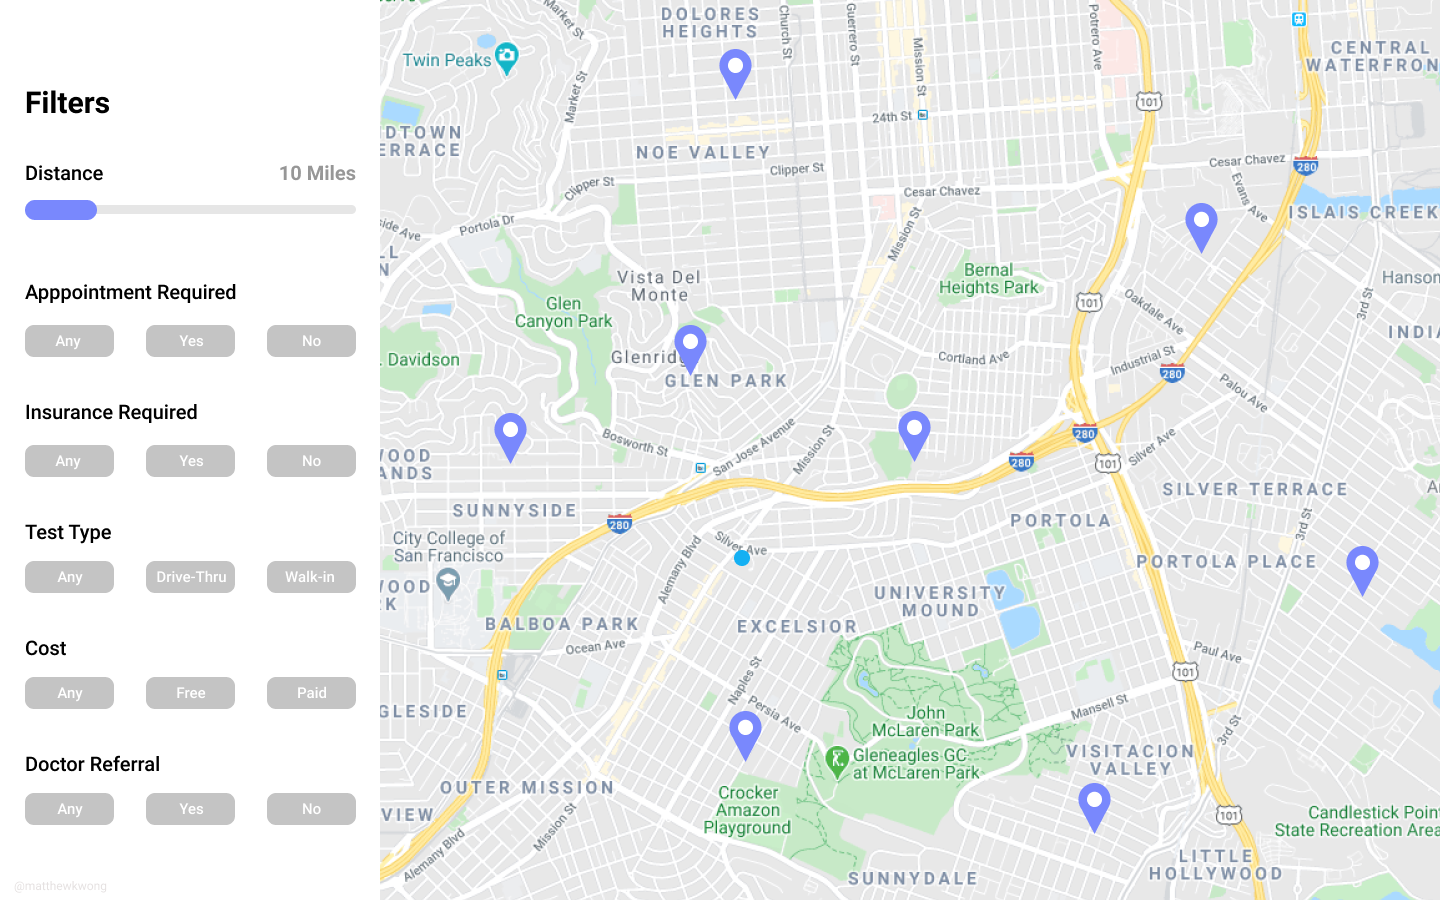
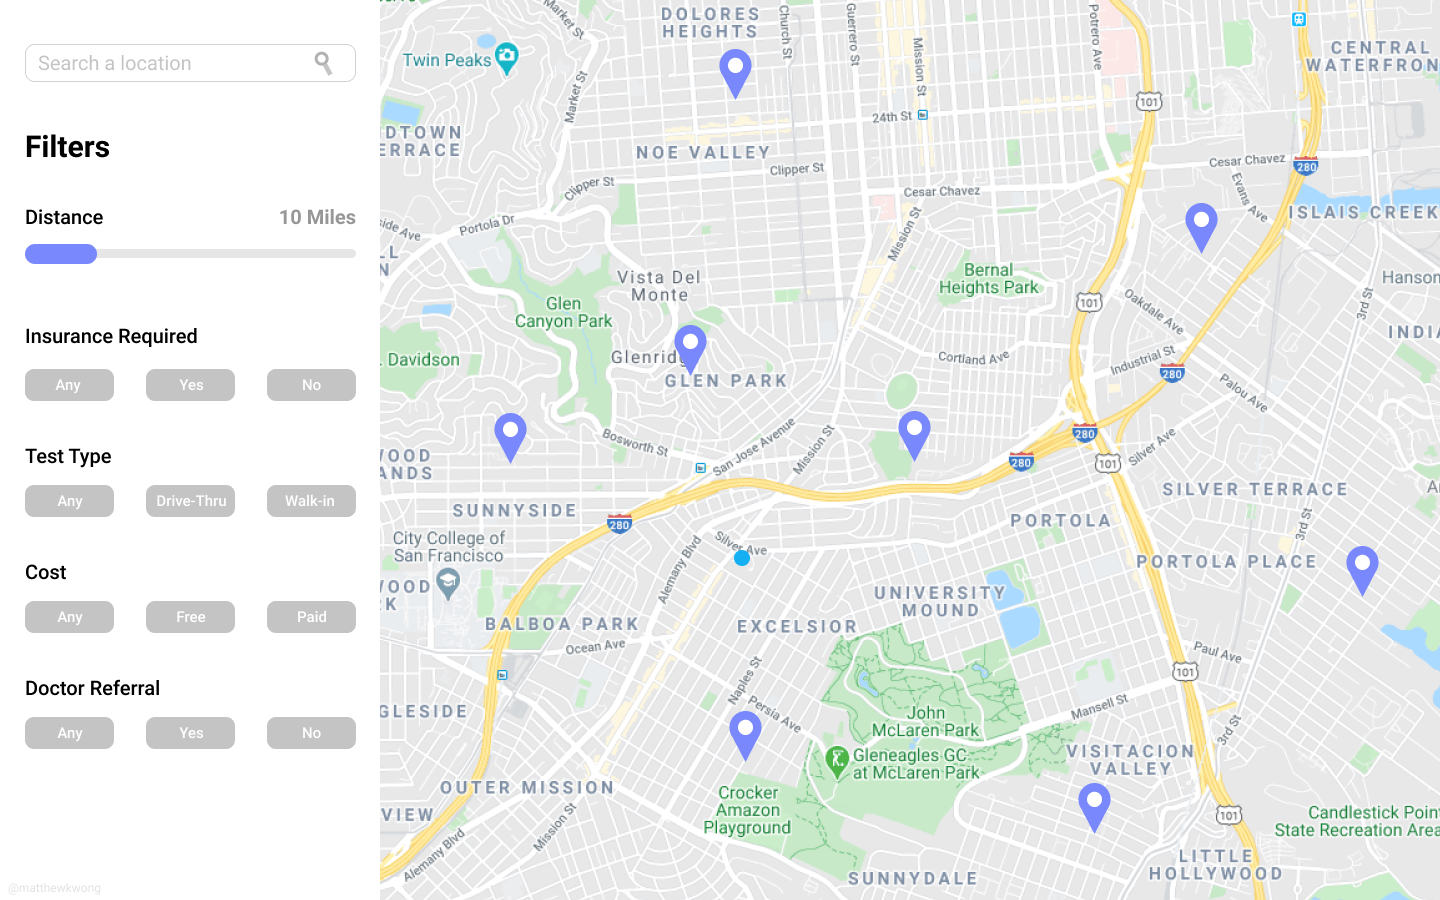
update findmycovid test images

Changed region(s): [[0.0, 0.1556, 0.25, 0.9333], [0.0, 0.0622, 0.125, 0.1244], [0.2188, 0.0622, 0.25, 0.0933]]

diff --git a/covidProcess.html b/covidProcess.html
@@ -62,7 +62,7 @@
     <h2></h2>
 
     <h2><a href="http://findmycovidtest.com/" target="_blank">Website</a></h2>
-    <h3>July - August 2019</h3>
+    <h3>July 2020- Current</h3>
   </div>
 
   <div class="project-body-text">
@@ -73,7 +73,7 @@
       it was difficult to find a testing center nearby that I qualified for. </p>
 
     <h2 class="project-subtitle">Solution</h2>
-    <p>Create a mobile application that allows users to find COVID-19 testing centers in their local area and allow them to filter through them 
+    <p>Create a mobile application that allows users to find COVID-19 testing centers in their local area and be able to filter through the results 
       based on their preferences.</p>
 
     <h2 class="project-subtitle">Target Audience / Persona</h2>
@@ -111,51 +111,56 @@
     <p>Through my first prototype, I had acknowledged all of the user’s highest requests, 
       allowing them to schedule and register for a COVID-19 testing appointment within seconds. 
       I created a simple and easy to use user interface that would satisfy my target audience. </p>
-    <div class="image">
-      <img src="img/covid/mobilePrototype.png" alt="Mobile Prototype">
+    <div class="image" style = "background-color: #E5E5E5;">
+        <img src="img/covid/mobilePrototype.png" alt="Mobile Prototype">
     </div>
-    
-    <!-- <div class = "iframeContainer">
-      <iframe src="https://www.figma.com/embed?embed_host=share&url=https%3A%2F%2Fwww.figma.com%2Ffile%2Fasy2WNk3oFgeo82Ua0vffV%2FFind-My-COVID-Test%3Fnode-id%3D717%253A0&chrome=DOCUMENTATION" allowfullscreen></iframe>
-    </div> -->
 
     <p>While this was good, I realized that if I published this prototype to the world, it wouldn’t actually benefit anyone or make a difference.
        I began to think of ways to develop this prototype into a real application. However, the only way to register a user 
        to an appointment would require my application to have access to every COVID-19 testing center’s registration database. 
        I knew this would be highly unlikely. </p>
 
-    <p>I scraped the idea and went back to the first step, acknowledging the problem that: Finding a COVID-19 testing center that meets your preferences is difficult.</p>
-
-    <p>After acknowledging my constraints of not being able to register users to a testing appointment and reviewing the survey responses, I began to brainstorm.</p>
+    <p>I scrapped the idea and went back to the first step, 
+      acknowledging the problem that: Finding a COVID-19 testing center that meets 
+      your preferences is difficult.</p>
 
     <h2 class="project-subtitle">Desktop Iteration 1</h2>
     <div class="image">
       <img src="img/covid/prototype1.png" alt="Desktop Protoype 1">
     </div>
-    <p>My solution to this problem was to now make a webpage that allowed users to filter testing centers and be able to view the results on an interactive map and webpage.</p>
-
+    <p>My solution to this problem was to make an interactive webpage
+       that allowed users to filter testing centers and be able to view 
+       the results on a map. </p>
 
     <h2 class="project-subtitle">Desktop Iteration 2</h2>
     <div class="image">
       <img src="img/covid/prototype2.png" alt="Desktop Protoype 2">
     </div>
-    <p>For a minimal viable product, I decided to eliminate the list view as it was important to me that users had enough screen space to 
-      interact with the map and for them and be able to filter the testing centers most applicable to them. To solve the problem of not 
-      being able to register patients directly, my solution was to have a button that would open the webpage for users to register for their COVID-19 test on a new page.</p>
+    <div class="image">
+      <img src="img/covid/prototype2Info.png" alt="Desktop Protoype 3 Filtered">
+    </div>
+    <p>To create a more straightforward and easy to navigate experience,
+       I eliminated the list view. Additionally, to solve the problem of 
+       not being able to register patients directly, my solution was to 
+       have a button that would open the webpage for users to register for 
+       their COVID-19 test on a new page.
+    </p>
 
 
     <h2 class="project-subtitle">Desktop Iteration 3</h2>
     <div class="image">
       <img src="img/covid/prototype3.png" alt="Desktop Protoype 3">
     </div>
-
+    <div class="image">
+      <img src="img/covid/prototype3Filter.png" alt="Desktop Protoype 3 Filtered">
+    </div>
     <p>After compiling a list of testing centers in California, I omitted the filtering option of Appointment because
     every testing center required an appointment. Additionally, I added a search bar feature that allows users to help friends or family members find testing centers near them.
     </p>
 
     <h2 class="project-subtitle">Final Product</h2>
     <div class="image">
-      <img src="img/covid/final.png" alt="Desktop Final">
+      <img src="img/covid/covid-banner.png" alt="Desktop Final">
     </div>
     <!-- <div class = "iframeContainer">
       <iframe src="https://www.figma.com/embed?embed_host=share&url=https%3A%2F%2Fwww.figma.com%2Ffile%2Fasy2WNk3oFgeo82Ua0vffV%2FFind-My-COVID-Test%3Fnode-id%3D939%253A1423&chrome=DOCUMENTATION" allowfullscreen></iframe>
@@ -166,7 +171,7 @@
     </p>
 
     <h2 class="project-subtitle">Branding</h2>
-    <div class="image">
+    <div class="image" style = "background-color: #E5E5E5;">
       <img src="img/covid/branding.png" alt="Branding">
     </div>
     
@@ -181,7 +186,12 @@
     <p>Unfortunately, because I am finding all of the testing centers by hand and through data.ca.gov, California’s public database, Find My COVID Test is only accessible in California.</p> 
     
     <p>Currently, I’m seeking health and COVID-19 testing organizations to partner to provide testing center information. 
-      If you would like to partner, please email me at: findmycovidtest@gmail.com</p>
+      If you would like to partner, please email me at: 
+      <a
+      href="mailto:&#102;&#105;&#110;&#100;&#109;&#121;&#099;&#111;&#118;&#105;&#100;&#116;&#101;&#115;&#116;&#064;&#103;&#109;&#097;&#105;&#108;&#046;&#099;&#111;&#109;">
+
+      &#102;&#105;&#110;&#100;&#109;&#121;&#099;&#111;&#118;&#105;&#100;&#116;&#101;&#115;&#116;&#064;&#103;&#109;&#097;&#105;&#108;&#046;&#099;&#111;&#109;</a>
+    </p>
     
     <p>If you would like to use Find My COVID Test for yourself, please visit: <a href="http://findmycovidtest.com/" target="_blank">http://findmycovidtest.com/</a></p> 
   
